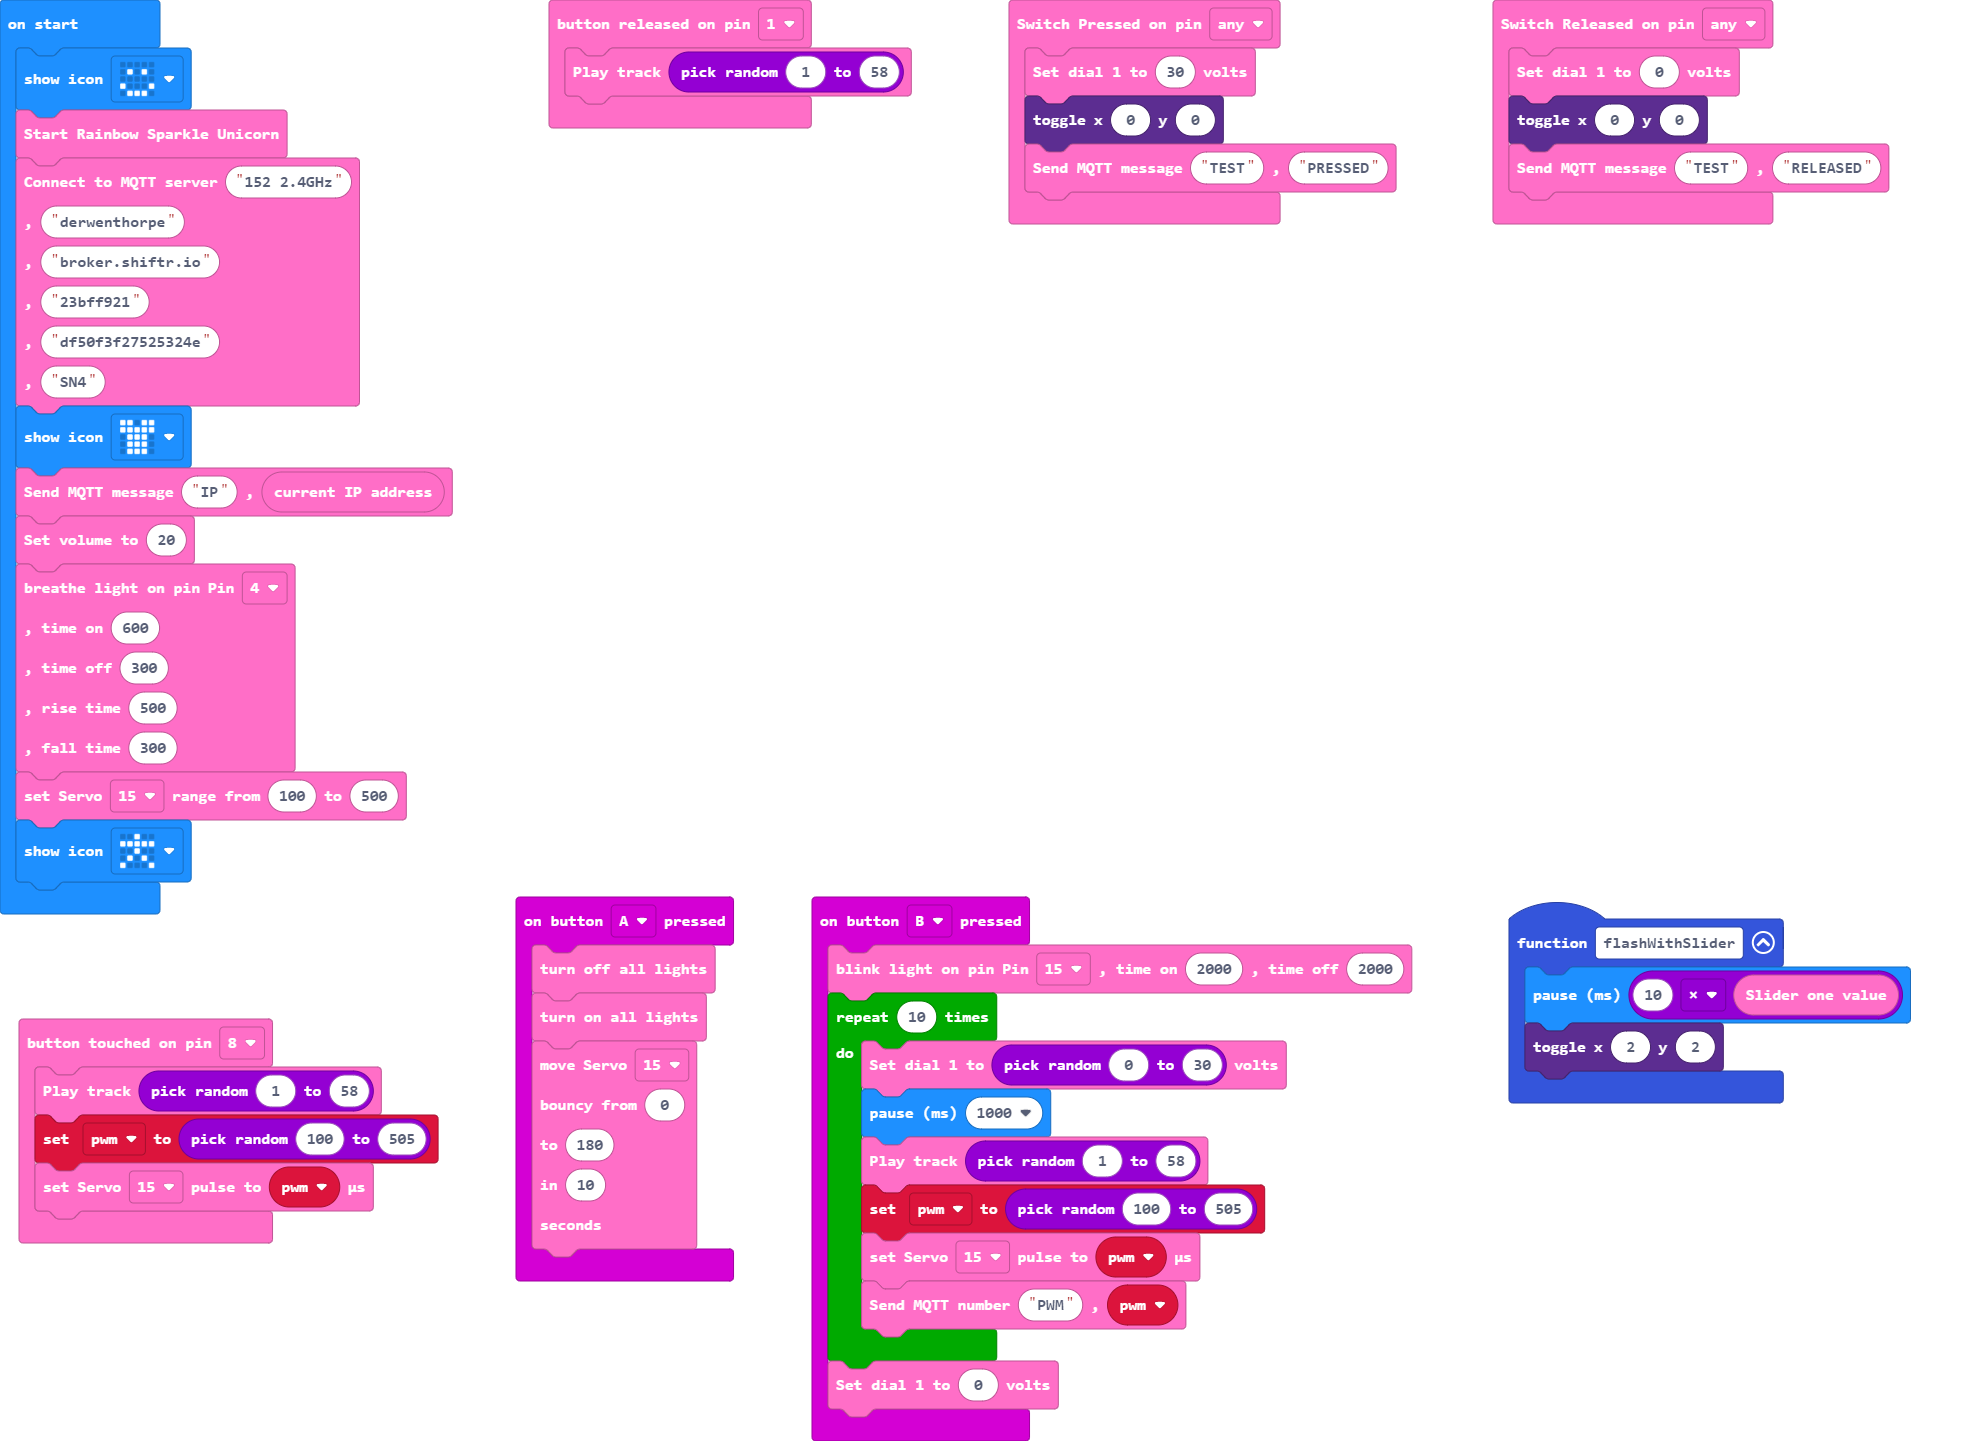
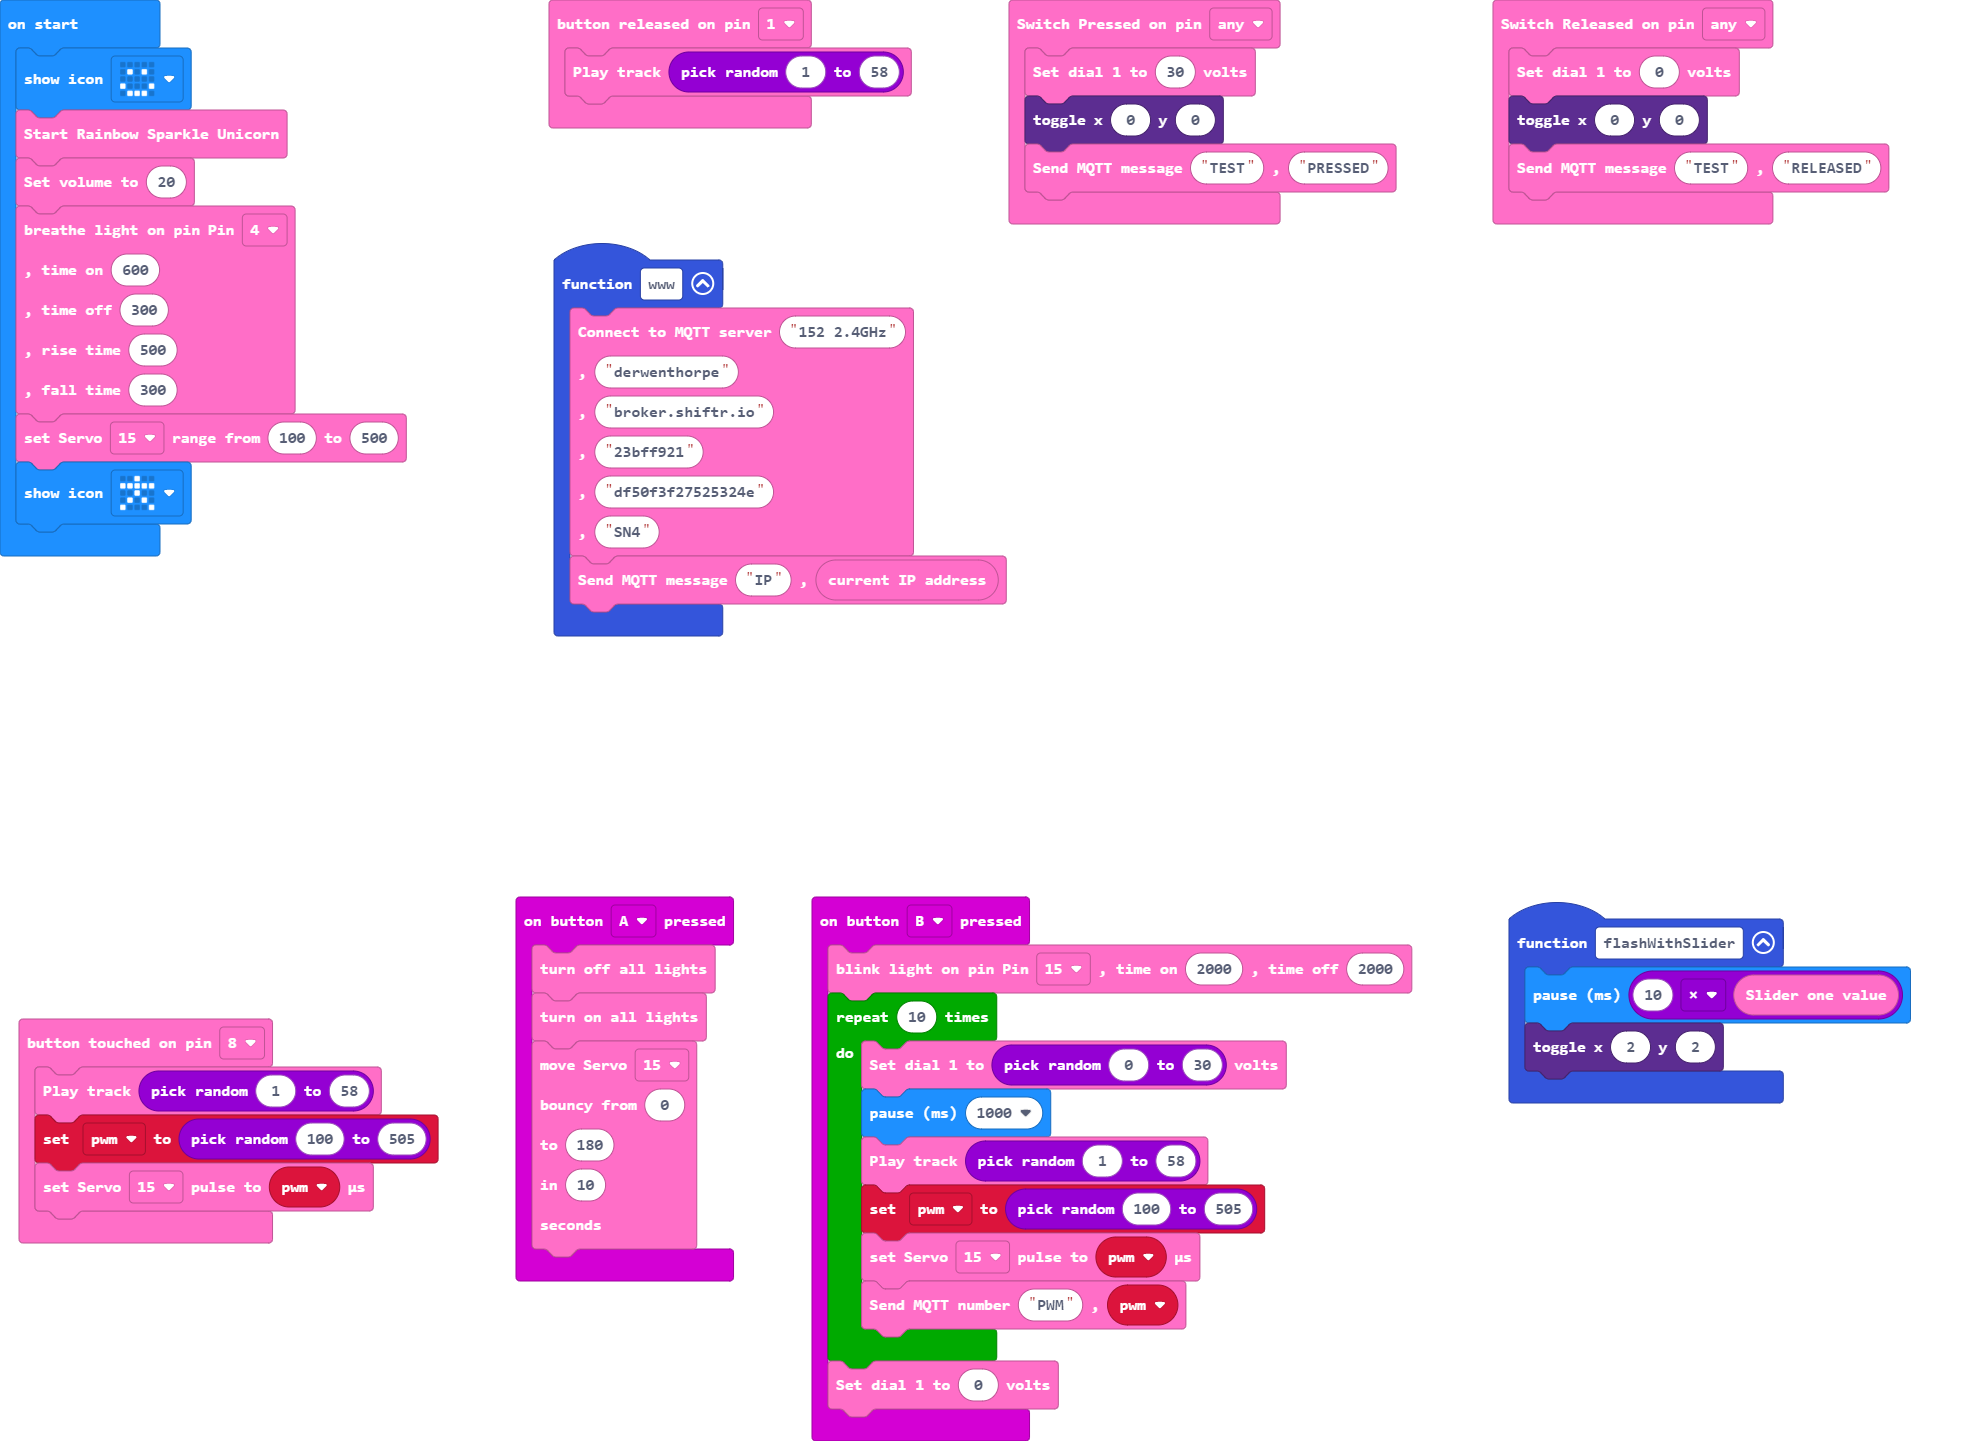
Update main.blocks, main.ts, movement.ts, UART.ts

Changed region(s): [[0.0, 0.0937, 0.2487, 0.6558], [0.2798, 0.1561, 0.5285, 0.4684]]

diff --git a/main.ts b/main.ts
@@ -20,6 +20,17 @@ input.onButtonPressed(Button.A, function () {
     10
     )
 })
+function www () {
+    RainbowSparkleUnicorn.connectToInterWeb(
+    "152 2.4GHz",
+    "derwenthorpe",
+    "broker.shiftr.io",
+    "23bff921",
+    "df50f3f27525324e",
+    "SN4"
+    )
+    RainbowSparkleUnicorn.sendMQTTMessage("IP", RainbowSparkleUnicorn.IPAddress())
+}
 input.onButtonPressed(Button.B, function () {
     RainbowSparkleUnicorn.blink(Blinkable.Blinkable15, 2000, 2000)
     for (let index = 0; index < 10; index++) {
@@ -45,16 +56,6 @@ RainbowSparkleUnicorn.onButtonTouched(RainbowSparkleUnicorn.TouchSensor.T8, func
 let pwm = 0
 basic.showIcon(IconNames.Happy)
 RainbowSparkleUnicorn.start()
-RainbowSparkleUnicorn.connectToInterWeb(
-"152 2.4GHz",
-"derwenthorpe",
-"broker.shiftr.io",
-"23bff921",
-"df50f3f27525324e",
-"SN4"
-)
-basic.showIcon(IconNames.TShirt)
-RainbowSparkleUnicorn.sendMQTTMessage("IP", RainbowSparkleUnicorn.IPAddress())
 RainbowSparkleUnicorn.setVolume(20)
 RainbowSparkleUnicorn.breathe(
 Breathable.Breathable4,

diff --git a/movement.ts b/movement.ts
@@ -91,8 +91,10 @@ let servoList = ["100,500,0","100,500,0","100,500,0","100,500,0","100,500,0","10
 
         const minP = msg[0];
         const maxP = msg[1];
+        
+       // basic.showString(minP);
 
-      sendMessage("V4," + servo + "," + fromAngle + "," + toAngle +"," + duration + "," + minP + "," + maxP);
+      sendMessage("V4," + servo + "," + fromAngle + "," + toAngle + "," + duration + "," + minP + "," + maxP);
     }
 
     //% subcategory="Movement" 

diff --git a/UART.ts b/UART.ts
@@ -2,6 +2,7 @@ namespace RainbowSparkleUnicorn {
 
 
    export function sendMessage(message: string): void {
+       serial.setTxBufferSize(64);
         serial.writeString(message + "\r\n");
      }
 
